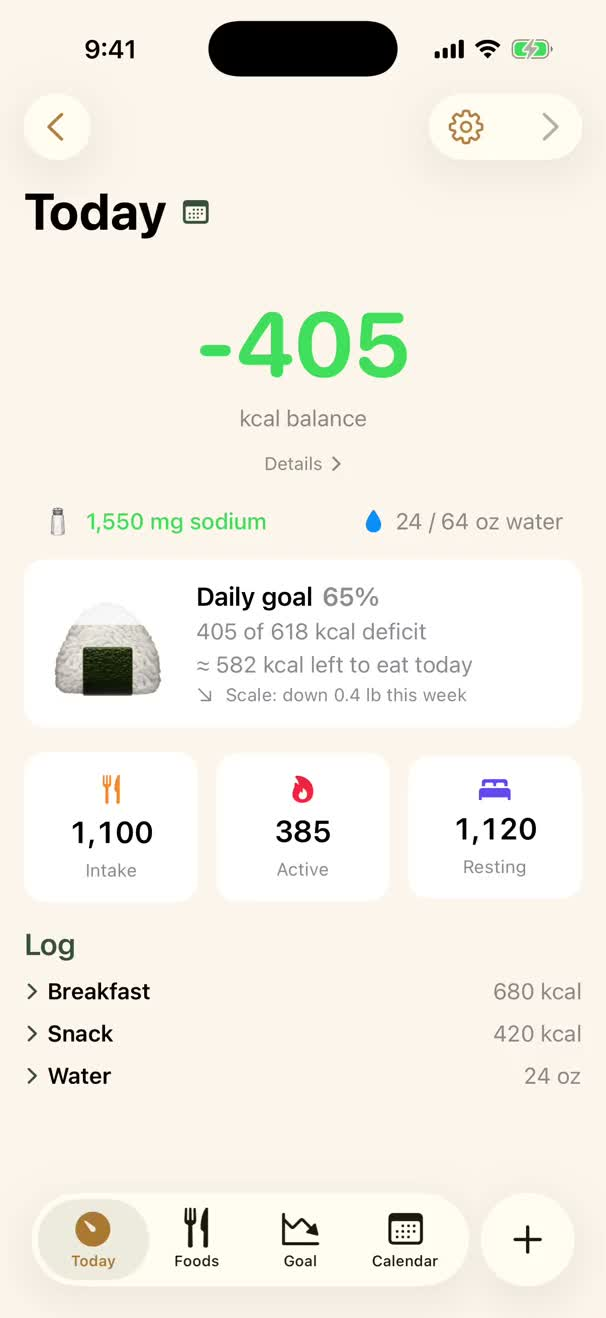
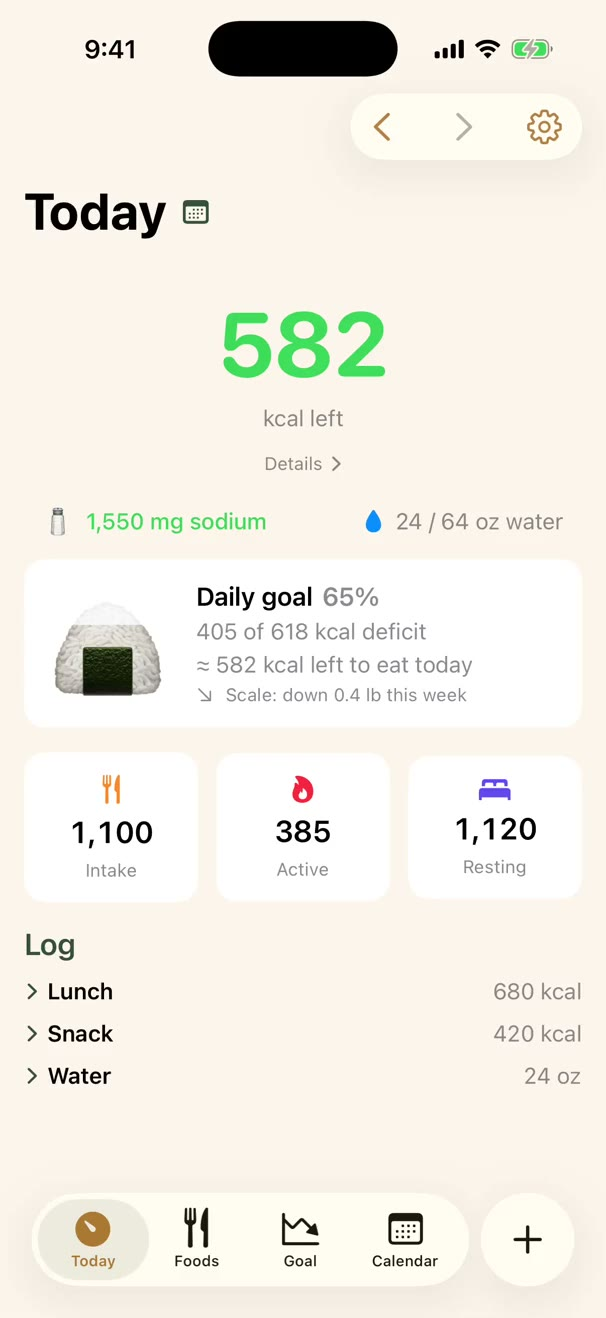
Widget shot goes light+dark; add-food clips re-shot on the current UI
- showcase/widget/home-screen.png was the site's ONLY light-mode-locked
  shot: now a same-composition pair (home-screen.png light,
  home-screen-dark.png dark — one widget install, appearance flipped in
  place) wired with the standard data-app-light/dark swap, dark default.
  Recaptured on the iPhone 17 sim (was a 1178px-wide older capture).
- media/add-food*.mp4 + posters, both appearances: re-shot on the
  current Log sheet (trailing sort control, "Scan Barcode, Label, or
  Food" scan row) — the old clips showed the leading sort icon and the
  pre-2.5.12 copy. Same narrative (+ pill → favorite → portion sheet →
  Log → Done), both clips reseeded to end on the same healthy day
  (402 kcal left, goal 36%).

diff --git a/docs/index.html b/docs/index.html
@@ -413,7 +413,7 @@
     <div class="surface reveal">
       <h3>On your Home and Lock Screens</h3>
       <div class="media">
-        <div class="plain-shot"><img src="showcase/widget/home-screen.png" alt="The Today widget on the Home Screen" loading="lazy"></div>
+        <div class="plain-shot"><img src="showcase/widget/home-screen-dark.png" data-app-light="showcase/widget/home-screen.png" data-app-dark="showcase/widget/home-screen-dark.png" alt="The Today widget on the Home Screen" loading="lazy"></div>
       </div>
       <p class="caption">Widgets show today's balance, your water progress, and your streak at a glance — and a Control Center button logs a serving of water without opening the app.</p>
     </div>